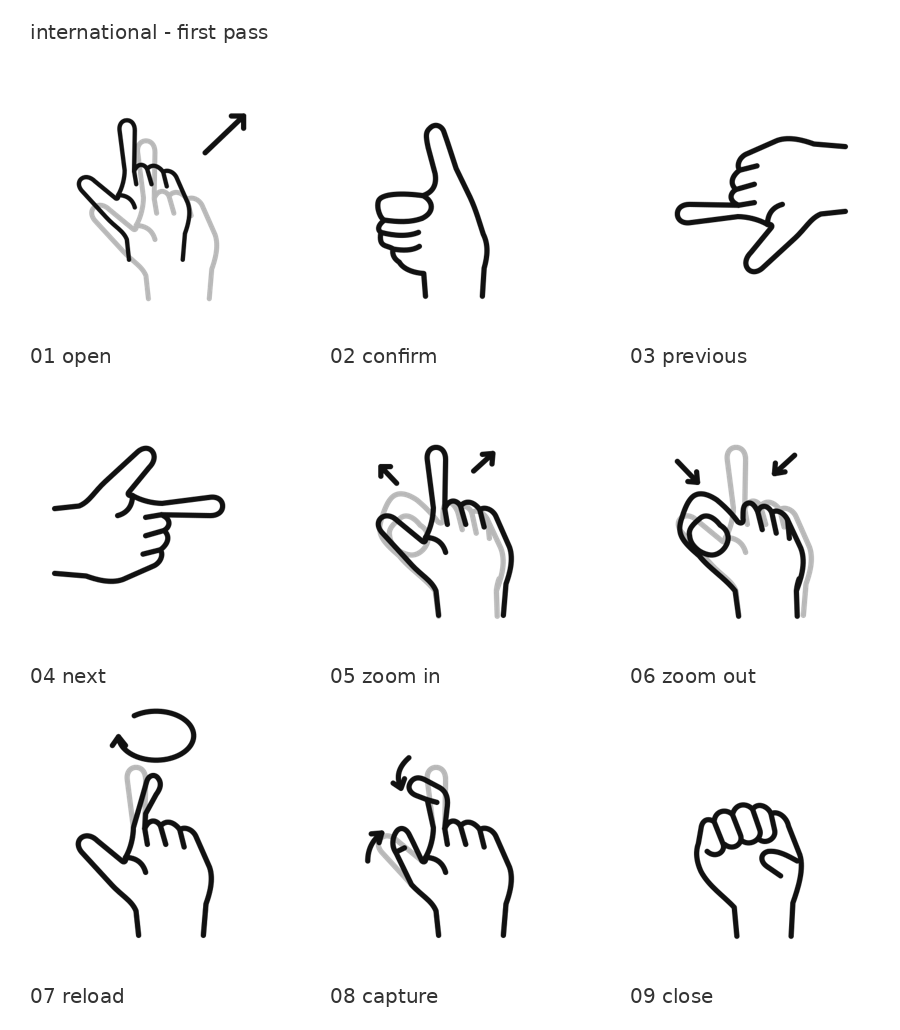
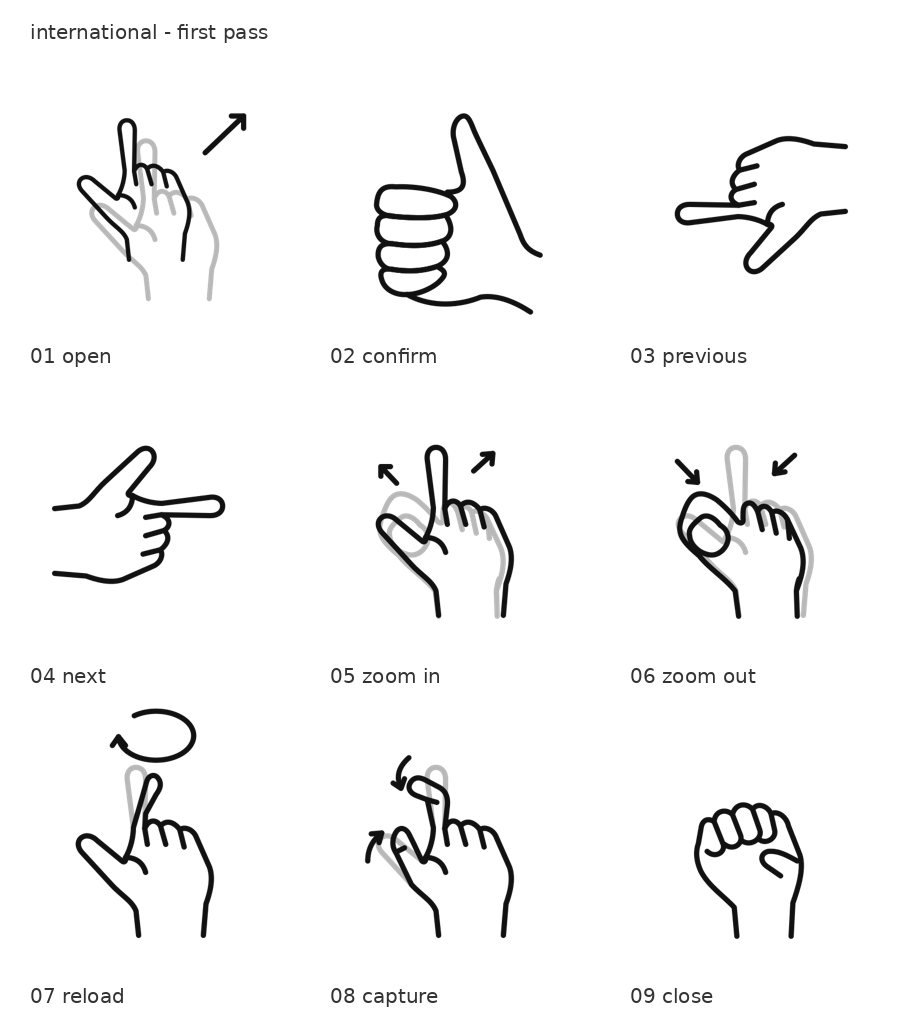
Redraw shared thumbs-up from original grid hand proportions

Changed region(s): [[0.4044, 0.0932, 0.5911, 0.3107]]

diff --git a/tools/build_static_samples.py b/tools/build_static_samples.py
@@ -2,8 +2,16 @@
 from pathlib import Path
 from xml.sax.saxutils import escape
 ROOT=Path(__file__).resolve().parents[1]
-THUMB='M 132,270 L 130,244 C 116,243 106,238 102,231 C 94,226 94,219 95,216 C 88,211 78,215 81,197 C 78,195 76,190 85,183 C 80,181 76,169 78,162 C 80,152 107,152 129,155 C 141,151 145,142 143,130 L 135,100 C 132,86 132,82 138,77 C 144,72 151,76 153,82 C 158,96 162,109 167,124 L 183,157 C 190,172 194,187 198,199 C 204,211 203,224 199,238 L 197,270'
-THUMB_DETAILS=['M 85,183 C 100,185 114,186 128,181','M 81,197 C 96,201 112,202 124,197','M 95,216 C 106,218 117,218 125,213','M 129,155 C 141,161 143,174 128,181']
+# Thumb-up anatomy based on the original domestic grid: four curled fingers,
+# a distinct raised thumb, broad palm, and a short oblique wrist.
+THUMB='M 263,223 C 249,218 244,211 240,199 L 209,126 C 198,103 193,93 188,82 C 184,72 181,63 175,64 C 168,65 162,76 164,88 L 173,128 C 179,145 173,151 157,151'
+THUMB_DETAILS=[
+'M 98,145 C 81,143 77,152 76,166 C 77,176 90,179 98,179 C 121,181 141,181 155,177 C 168,173 170,163 161,156 C 145,148 118,144 98,145 Z',
+'M 98,179 C 84,176 77,178 77,189 C 74,200 82,210 94,210 C 114,213 135,213 151,207 C 160,204 166,194 155,177 C 141,181 121,181 98,179 Z',
+'M 94,210 C 82,209 77,214 78,225 C 80,234 87,239 92,239 C 110,242 127,242 145,236 C 157,231 162,221 151,207 C 135,213 114,213 94,210 Z',
+'M 92,239 C 83,238 79,242 82,251 C 85,262 97,269 111,268 C 125,268 141,260 148,253 C 155,246 157,242 145,236 C 127,242 110,242 92,239 Z',
+'M 111,268 C 140,284 173,280 195,271 C 215,268 235,277 252,288'
+]
 OK='M 147,270 L 143,241 C 131,226 114,216 102,201 C 82,184 77,176 81,161 C 85,148 88,141 92,136 C 99,127 110,129 122,137 C 133,146 142,156 146,162 C 150,165 153,163 152,158 L 139,91 C 137,82 139,74 146,74 C 153,73 158,78 159,82 L 173,136 L 179,100 C 180,91 184,87 190,89 C 197,91 201,97 201,105 L 205,149 L 217,130 C 221,121 228,124 230,131 C 233,140 231,154 229,166 L 223,200 C 220,216 214,230 213,241 L 214,270'
 OK_DETAILS=['M 126,166 C 119,157 110,152 103,158 C 96,164 89,170 91,178 C 92,191 105,199 115,200 C 126,201 136,189 135,179 C 134,173 131,169 126,166','M 173,136 L 177,158','M 205,149 L 203,170']
 def write(relative,title,gesture,outline,details):
